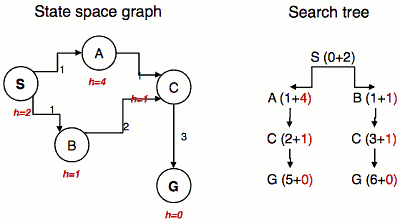
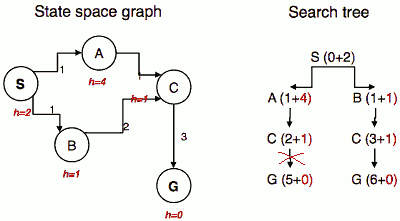
m

diff --git a/dev_notes/AI_CS188.md b/dev_notes/AI_CS188.md
@@ -869,6 +869,10 @@ Admissible heuristic with tree search is optimal but graph search no guarantees.
 
 ![](https://raw.githubusercontent.com/mebusy/notes/master/imgs/cs188_Astar_go_wrong.png)
 
+SAC can not expand because C is in closed set.
+
+
+
 <h2 id="cb964f845fc822953ddb83ca6d124e6b"></h2>
 ### Consistency of Heuristics
 
@@ -885,6 +889,8 @@ Admissible heuristic with tree search is optimal but graph search no guarantees.
 
 
 ![](https://raw.githubusercontent.com/mebusy/notes/master/imgs/cs188_ConsistencyofHeuristics.png)
+
+PS. Admissibility graph search 存在的这个问题, 可以通过 Cost-Sensitive-Closed-Set 来解决，见最后代码. 但是会导致计算量增加。
 
 ---
 
@@ -946,14 +952,22 @@ end // func
 <h2 id="1388b32869f8288febeb18f8ec802b42"></h2>
 ### Graph Search Pseudo-Code
 
+ - even if a node is ***added*** to the fringe multiple times it will not be ***expanded*** more than once
+
 ```
 function GRAPH-SEARCH(problem,fringe) return a solution, or failure
 	closed <- an empty set
+	// pop into fringe 
+	// 可以 添加重复node
+	// 实际上，这些重复的node g 值很可能是不同的
 	fringe <- INSERT(MAKE-NODE(INITIAL-STATE[problem]),fringe)
 	loop do
 		if fringe is empty then
 			return failure
 		end
+
+		// pull from fringe
+		// 只有在 这个时候 检查 closed,
 		node <- REMOVE-FRONT(fringe)
 		if GOAL-TEST(problem,STATE[node]) then 
 			return node
@@ -967,6 +981,63 @@ function GRAPH-SEARCH(problem,fringe) return a solution, or failure
 	end
 end // func
 ```
+
+**Memory Efficient Graph Search**
+
+如果在 pop onto fringe 过程中，发现 node 已经在 fringe中存在, 比较这两个node , 如果
+
+ - new node cost < node in fringe cost ,  replace the old 1
+ - new node cost >= node in fringe cost , ignore it
+
+
+算法唯一区别是 INSERT 方法
+
+
+```
+function SPECIAL-INSERT(node, fringe, closed) return fringe
+	// by pass node already in closed
+	if STATE[node] not in closed set then
+		if STATE[node] is not in STATE[fringe] then
+			// same 
+			fringe <- INSERT(node,fringe)
+		else if STATE[node] cost < STATE[node] cost in fringe then
+			// Memory Efficient 
+			fringe <- REPLACE(node,fringe)
+		end
+	end
+end // func
+```
+
+By doing this the fringe needs less memory, however insertion becomes more computationally expensive.
+
+**A\*-graph-search-with-Cost-Sensitive-Closed-Set**
+
+使用这个算法，仅保证 admissible , 就可以得到最优解, 但是同一个 node 可能会多次 expand, 计算量可能会近似 tree search
+
+```
+function GRAPH-SEARCH(problem,fringe) return a solution, or failure
+	closed <- an empty dictionary  // 1
+	fringe <- INSERT(MAKE-NODE(INITIAL-STATE[problem]),fringe)
+	loop do
+		if fringe is empty then
+			return failure
+		end
+		node <- REMOVE-FRONT(fringe)
+		if GOAL-TEST(problem,STATE[node]) then 
+			return node
+		end
+		if STATE[node] is not in closed  
+			or COST[node] < closed[STATE[node]]   // 2
+		then
+			closed[STATE[node]] <- COST[node]  // 3
+			for child-node in EXPAND(STATE[node],problem) do
+				fringe <- INSERT(child-node,fringe)
+			end
+		end
+	end
+end // func
+```
+
 
 <h2 id="ea9a7016fa68c3fd6434c9c0fb4afa3d"></h2>
 ### Optimality of A* Graph Search

diff --git a/dev_notes/LinearAlgebra_PositiveDefiniteMatrices.md b/dev_notes/LinearAlgebra_PositiveDefiniteMatrices.md
@@ -15,3 +15,26 @@
 ## 6.1 MINIMA , MAXIMA , AND SADDLE POINTS
 
 Up to now, we have hardly thought about the **signs of the eigenvalues**. 
+
+We couldn't ask whether λ was positive before it was known to be real. Chapter 5 established that every symmetric matrix has real eigenvalues. 
+
+Now we will find a test that can be applied directly to A, without computing its eigenvalues, which will guarantee that all those eigenvalues are positive. 
+
+The test brings together three of the most basic ideas in the book *pivots*, *determinants*, and *eigenvalues*.
+
+---
+
+The signs of the eigenvalues are often crucial. For stability in differential equations, we needed negative eigenvalues so that e<sup>λt</sup> would decay. 
+
+The new and highly important problem is to recognize a ***minimum point***. This arises throughout science and engineering and every problem of optimization. The mathematical problem is to move the second derivative test F" > 0 into n dimensions. Here are two examples:
+
+```
+F(x,y) = 7 + 2(x+y)² - ysiny - x³
+f(x,y) = 2x² + 4xy + y²
+```
+
+Does either F(x, y) or f(x, y) have a minimum at the point x = y = 0 ?
+
+***Remark I*** The ***zero-order*** terms F(0, 0) = 7 and f(0, 0) = 0 have no effect on the answer. They simply raise or lower the graphs of F and f .
+
+***Remark 2*** The ***linear terms*** give a necessary condition: To have any chance of a minimum, the first derivatives must vanish at x = y = 0:
